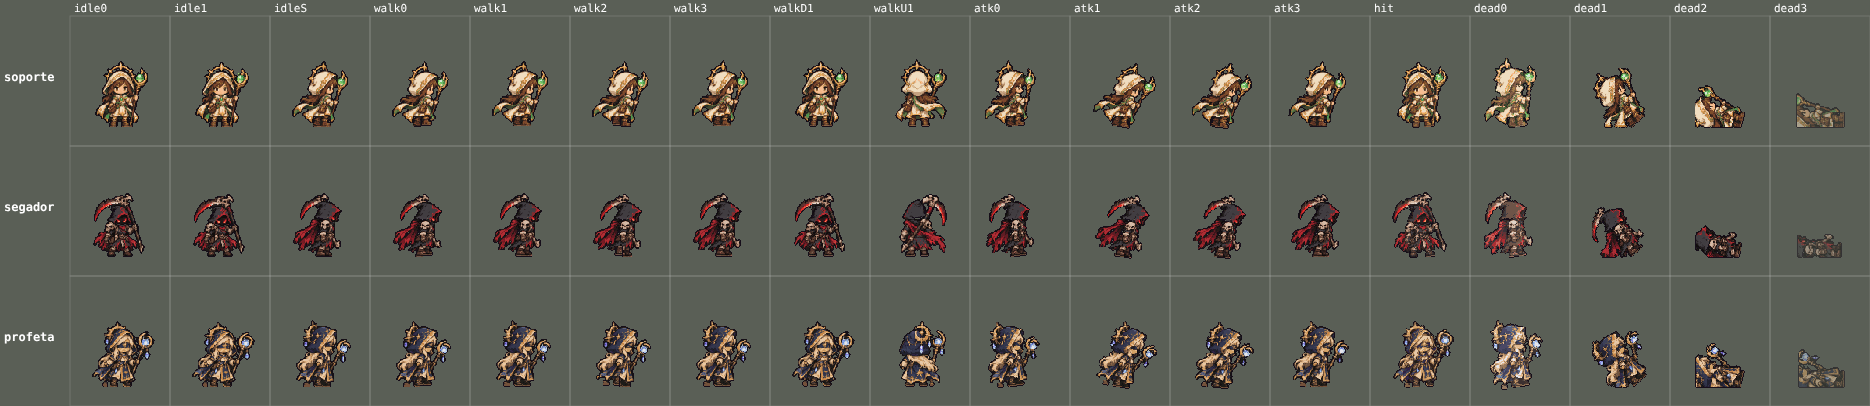
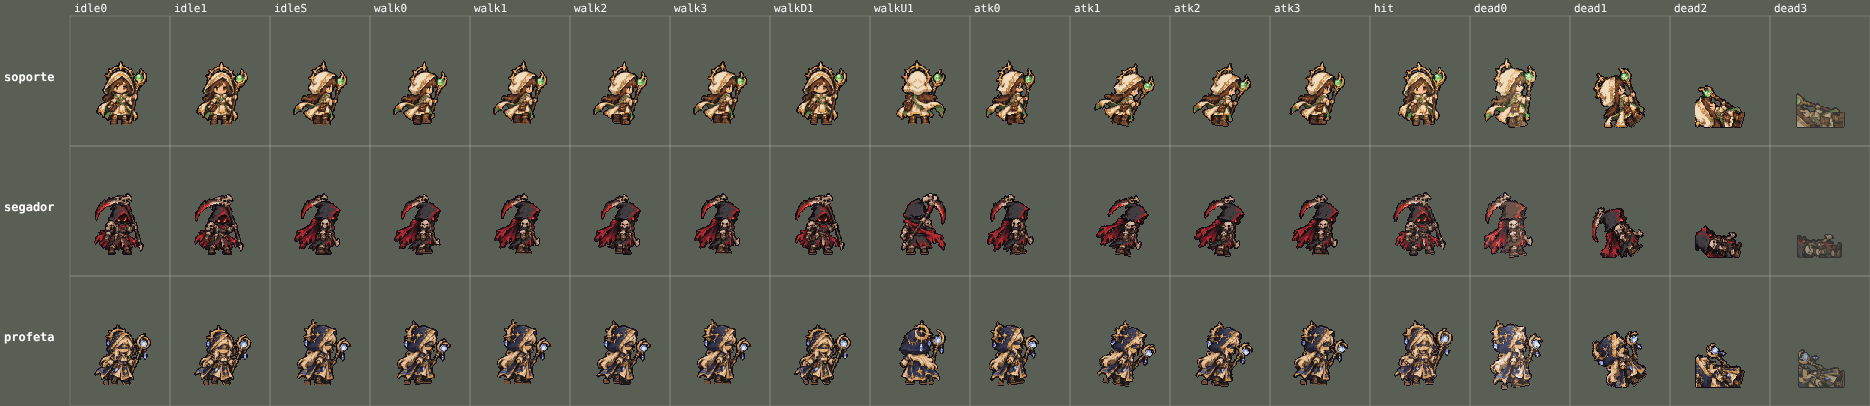
Reparación de arte (WIP de agentes, sin push)
Claude-Session: https://claude.ai/code/session_01LxJEcjGHLngn4o4wPZAHs2

diff --git a/js/core/asset-version.js b/js/core/asset-version.js
@@ -7,7 +7,7 @@
    Subí ASSET_VER (tools/perf/bump-asset-version.js) cada vez que cambia arte instalado. Debe cargar ANTES que cualquier cargador de imágenes.
    El service worker (sw.js) valida por ruta + hash y no se ve afectado por la query.
    ============================================================ */
-window.ASSET_VER = "1fa7ccc8";
+window.ASSET_VER = "979c6ea2";
 (function(){
   try{
     const d = Object.getOwnPropertyDescriptor(HTMLImageElement.prototype, "src");

diff --git a/js/ui/codex/codex-preview.js b/js/ui/codex/codex-preview.js
@@ -245,7 +245,7 @@ function _cxDrawMother(g, e){
 // los jefes (enormes en el mundo) no llegan al tope y se ven igual que antes.
 function _cxMaxZoom(g){
   const c = g && g.canvas, dpr = (c && c.clientWidth) ? c.width/c.clientWidth : 1;
-  return 2.6*dpr;
+  return 4.0*dpr;
 }
 // Ajuste automático: se mide una vez la caja real del sprite (píxeles no transparentes) en reposo.
 function _cxMeasure(type){

diff --git a/docs/beta-release/ART_CREDITS.md b/docs/beta-release/ART_CREDITS.md
@@ -30,3 +30,5 @@ Gasto de esta ejecución programada: 40 créditos (de 60 permitidos).
 | 2026-11-06 | ≈126→≈102 | Coloso s_emerge 0d871a34 y s_emerge2 0c197e70 (transformación: emerge de la arena); Profeta pg_death1 de0c3931 (caída de rodillas). Todas aceptadas e integradas en los atlas |
 | 2026-11-06 | ≈102→≈70 | Profeta pg_idle2 4ca2de11 (aceptada), Libertador w_wu2 ba294dbd (aceptada, 2.ª pose de caminata de espaldas), Myla d3 FALLÓ otra vez (`BAD_OUTPUT`, 9a15658c; cobrada) → se deja de intentar. Saldo final ≈ 70 (reserva; el propietario pidió gastar el saldo en arte de campeones) |
 | 2026-11-07 | 86→70 | **Tanda Libertador/Saelis (16 cr, tope 20)**: Libertador caída `l_death1` task 11f9180e-f589-4043-be8f-18db0960cddb (8 cr; `@codex`=ref_frente, `@pose`=cuadro de caída anterior; aceptada, anatomía limpia, ojos cerrados) y Saelis caída `s_death1` task 996ac877-b342-4752-a52d-86a54d0bb439 (8 cr; `@codex`=recorte del Códice, `@pose`=caída anterior; aceptada, piel remapeada al tono del Códice). Ninguna falló. Recibos en `art-source/runway-guardians/{libertador/l_death1,saelis/s_death1}/receipt.json`. Integradas con `tools/art-world/_key.py` (fondo, escala nativa, contorno 1 px, alfa binario) |
+| 2026-11-07 | - | **Tanda otros guardianes (aurelia, kora, ynara, mago, ilsa, vorn): 0 créditos Runway.** Todo con el pintor determinista (`tools/art/painter/retouch/`: lib.py, kora/ilsa/vorn.py enganchados con `"retouch"` en la ficha, installed.py para aurelia/ynara/mago; hojas de origen en `art-source/retouch-base/`). Elementos nuevos de la forja: casco_minero, sombrero_esgrimista, cuernos_de_basalto |
+| 2026-11-07 | sin cambio | Soporte, Segador y Profeta: cuerpo del Códice reinstalado con el pintor determinista (`tools/art-world/build-codex-trio.py`, recorte de FRENTE/LADO/ESPALDA + animación por píxel entero). **0 créditos Runway gastados** (tope de 20 no tocado). Atlas `codex-v1` de 52 cuadros por guardián; sin evaluación independiente |
